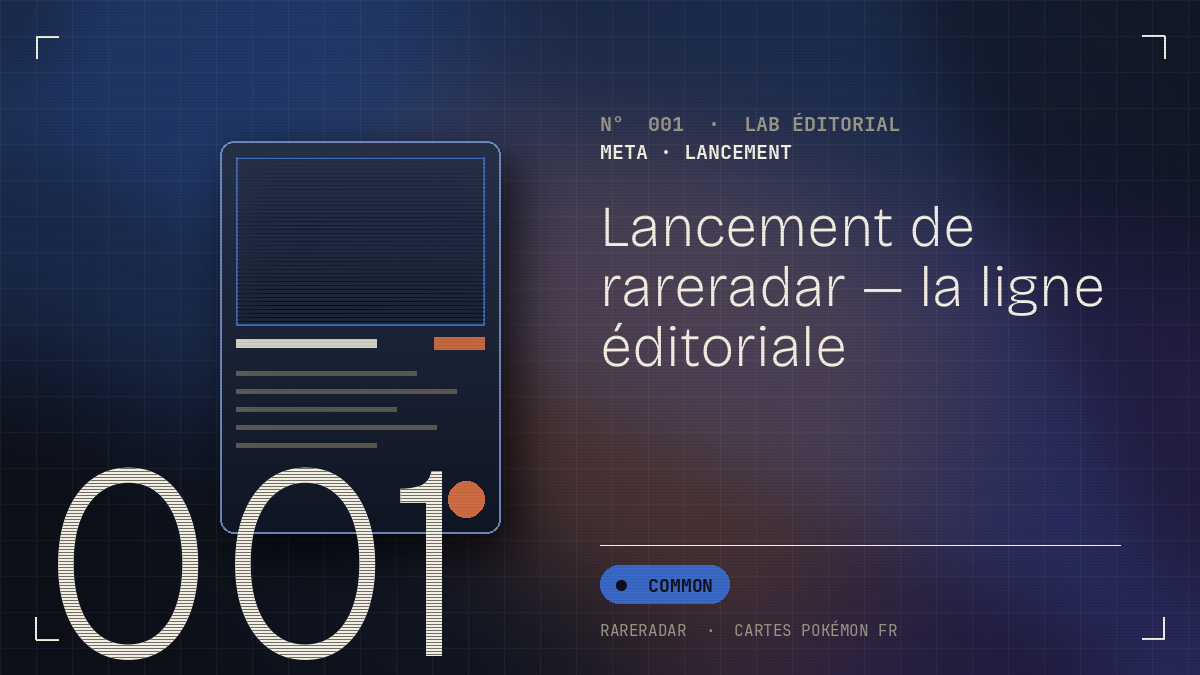
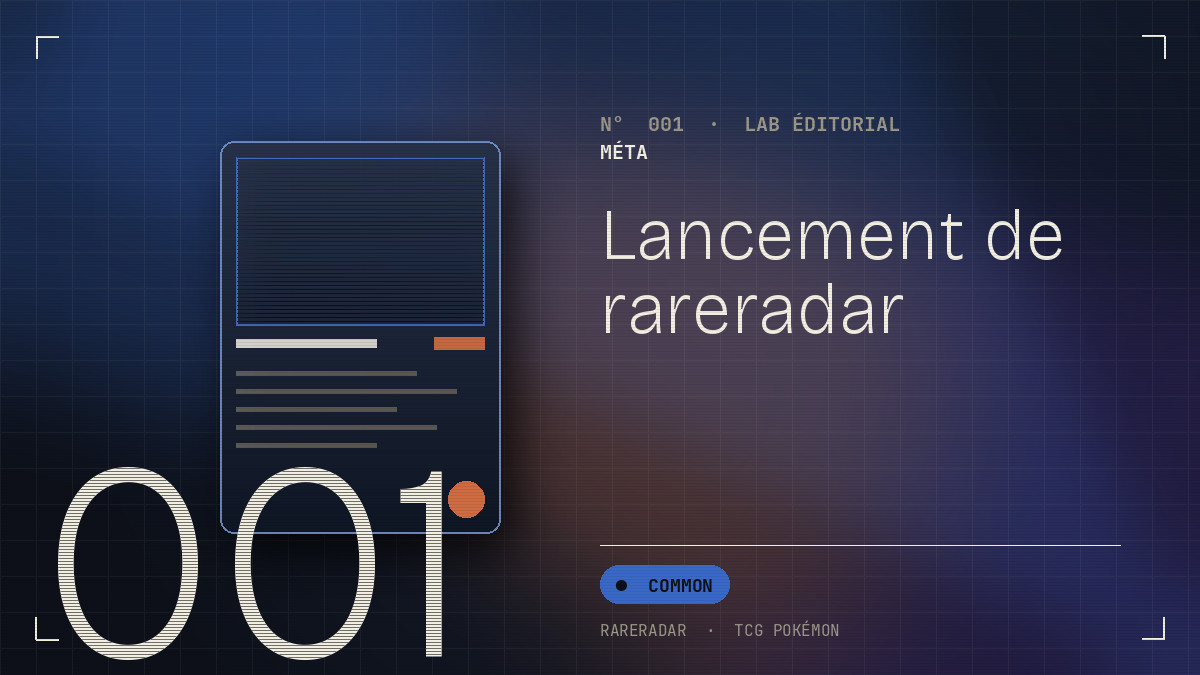
Fixes design hero CFDS
- Cards uniformes (12 cols → span 6 chacune, hauteurs égales via height:100%)
- Hero title h-display → h-1 (clamp 3-6.6rem au lieu de 4.4-12rem)
- 'cartes Pokémon FR' → 'TCG Pokémon' (couvre toutes langues : FR/EN/JP/KR)
- Cover images regénérées avec bottom text 'RARERADAR · TCG POKÉMON'
- index.html title aligné

Bug user signalé : titre gigantesque + cards inégales + 'FR' trompeur.
Cover article #002 servie 200 OK depuis push précédent (cache navigateur user
probable, hard refresh requis).

Changed region(s): [[0.4933, 0.3111, 0.925, 0.56], [0.6475, 0.9022, 0.74, 0.9644], [0.555, 0.2178, 0.6783, 0.2489]]

diff --git a/assets/css/style.css b/assets/css/style.css
@@ -584,15 +584,13 @@ a {
   border: 1px solid var(--rule-soft);
   position: relative;
   isolation: isolate;
+  height: 100%;
 }
-.article-card:nth-child(3n+1) { grid-column: span 7; }
-.article-card:nth-child(3n+2) { grid-column: span 5; }
-.article-card:nth-child(3n)   { grid-column: span 12; }
 @media (max-width: 900px) {
-  .article-card,
-  .article-card:nth-child(3n+1),
-  .article-card:nth-child(3n+2),
-  .article-card:nth-child(3n)   { grid-column: span 12; }
+  .article-card { grid-column: span 12; }
+}
+.card-grid {
+  align-items: stretch;
 }
 
 /* Hover : glow doux + lift subtile (remplace l'holo cone agressif v5) */

diff --git a/_layouts/home.html b/_layouts/home.html
@@ -12,10 +12,10 @@ layout: default
         <span class="hero__detect-count" aria-hidden="true"></span>
       </span>
       <span class="eyebrow">N° {{ site.posts.size | prepend: '00' | slice: -3, 3 }}</span>
-      <span class="eyebrow">Lab éditorial · cartes Pokémon FR</span>
+      <span class="eyebrow">Lab éditorial · TCG Pokémon</span>
     </div>
 
-    <h1 class="hero__title h-display">
+    <h1 class="hero__title h-1">
       Lire avant<br>de <span class="underline">collectionner</span><em>.</em>
     </h1>
 

diff --git a/index.html b/index.html
@@ -1,5 +1,5 @@
 ---
 layout: home
-title: rareradar — cartes Pokémon FR
+title: rareradar — TCG Pokémon
 description: Reviews et guides éditoriaux indépendants sur les cartes Pokémon TCG. Accessoires, conservation, grading PSA / CGC / BGS, analyse de sets.
 ---
